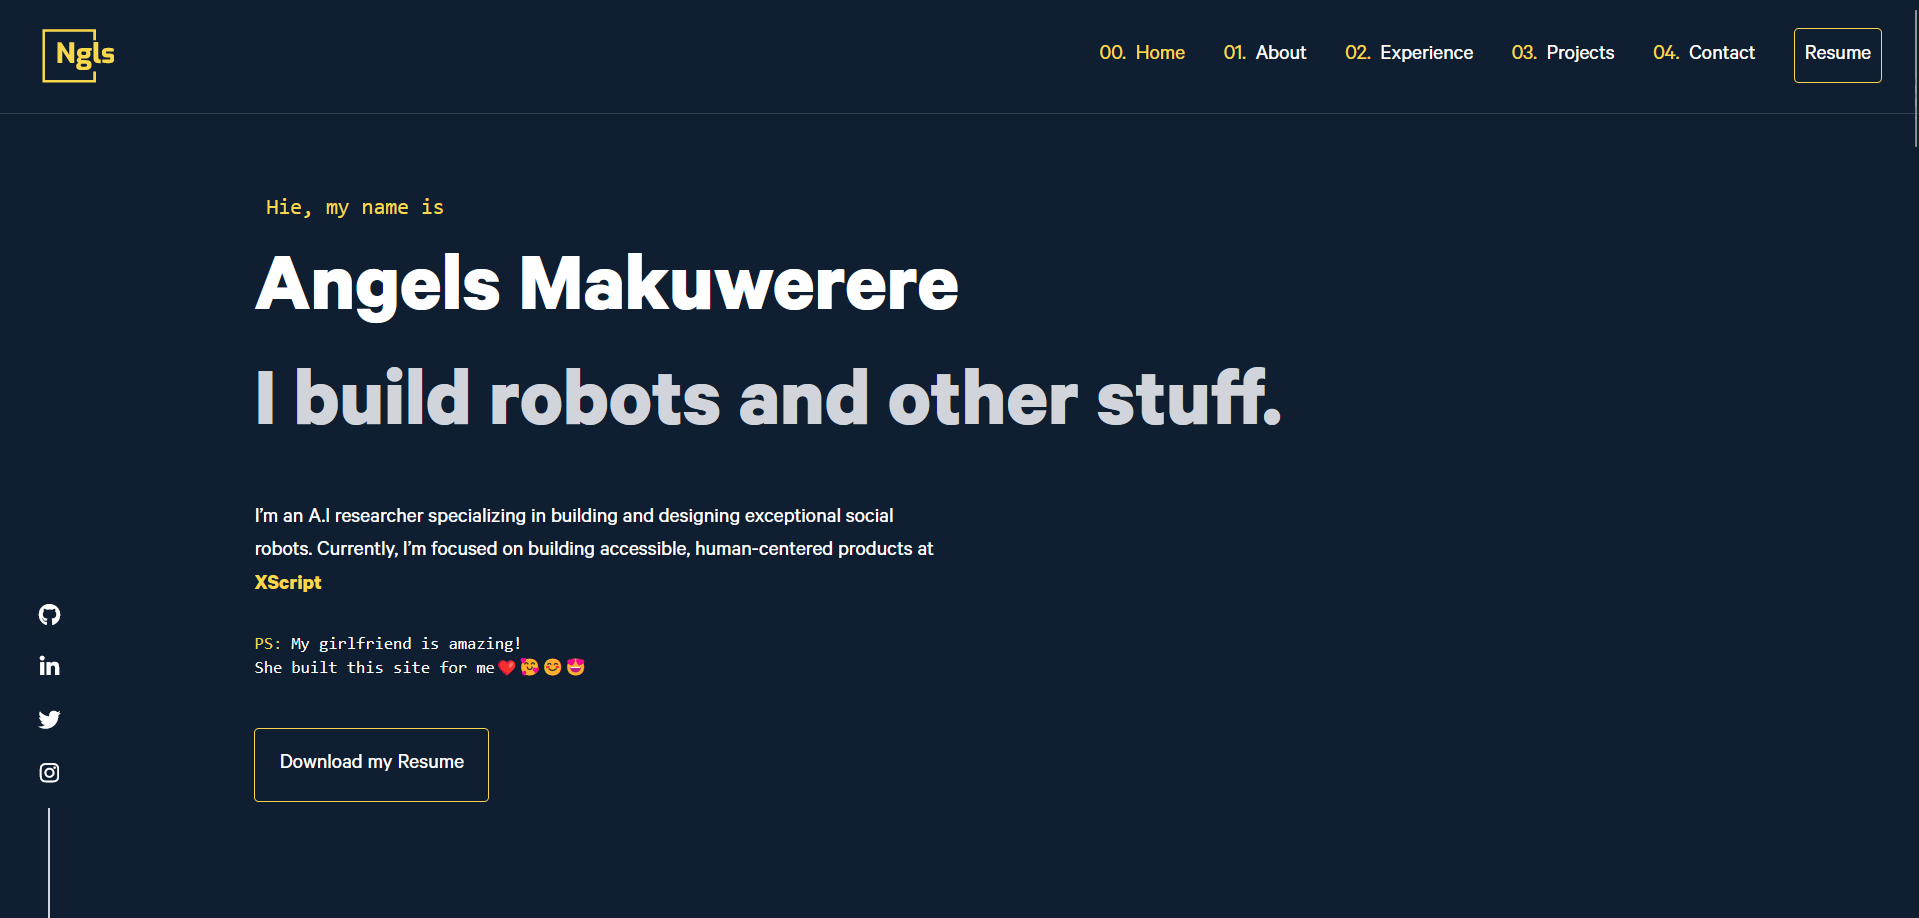
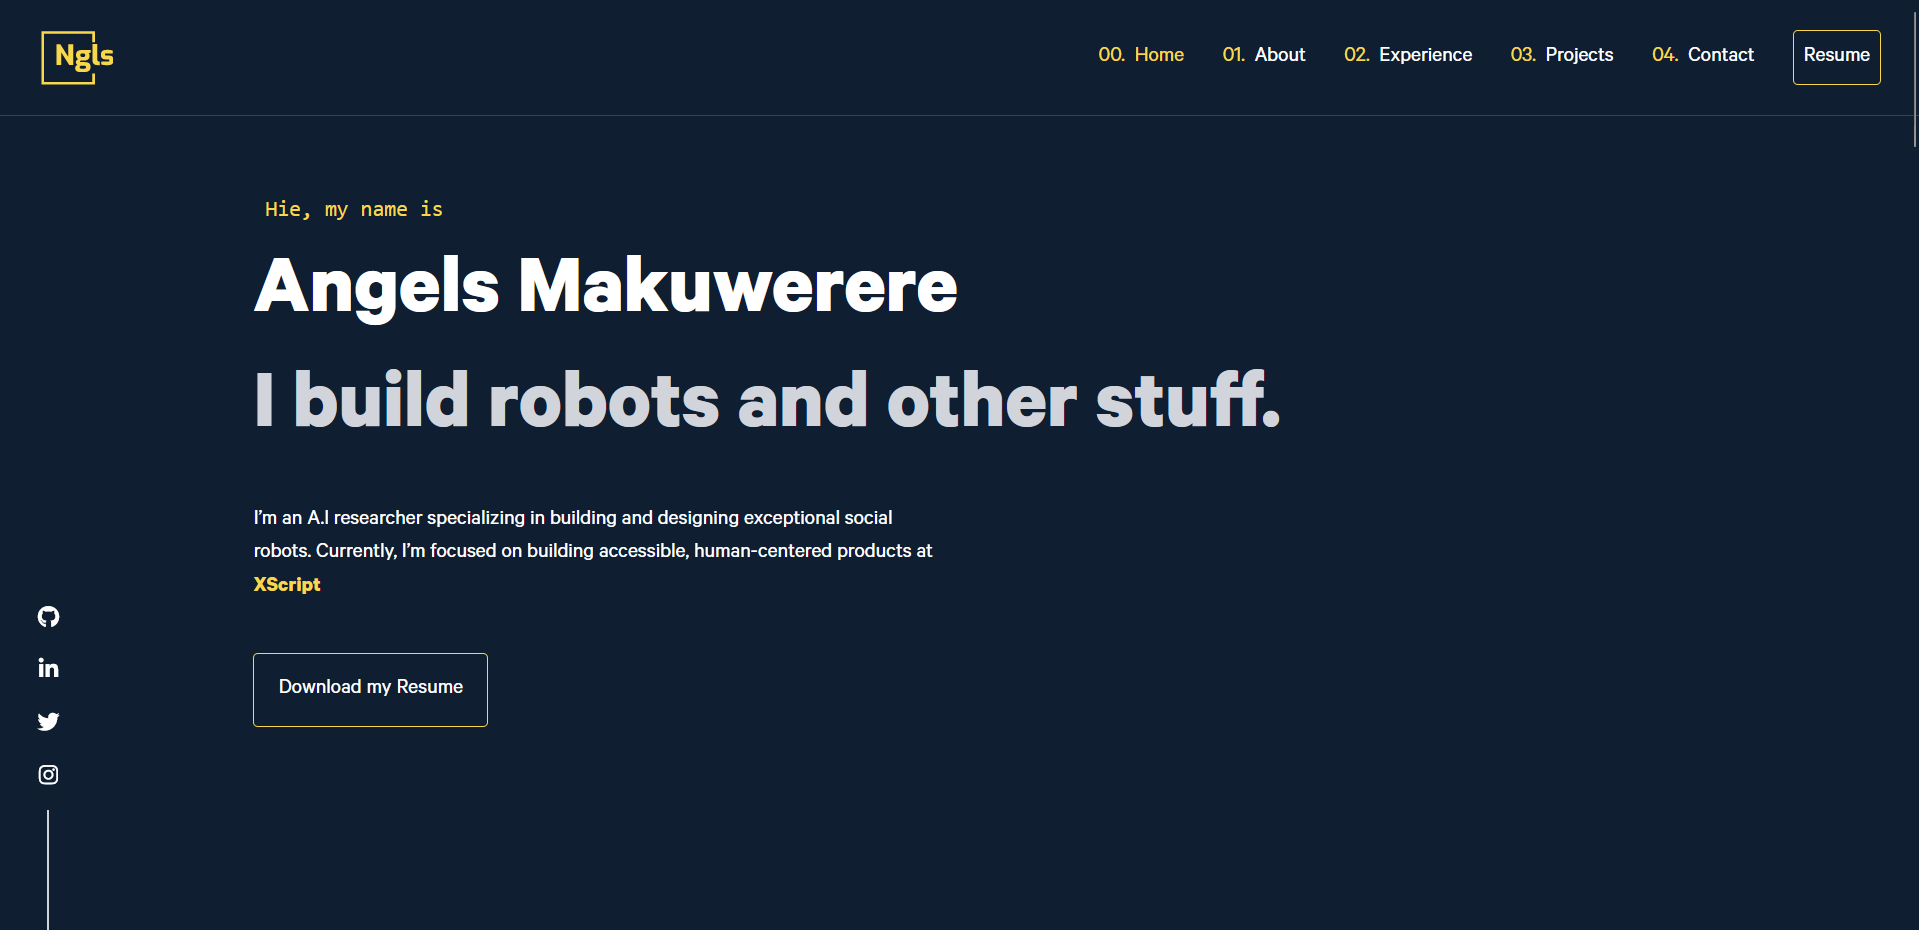
imgs readme

diff --git a/src/data/presets.jsx b/src/data/presets.jsx
@@ -78,7 +78,7 @@ export const Data = {
         {
           Title: "Overview",
           Description:
-            "My girlfriend likes this robot from Rick and Morty so I built it for her. I just want to make her happy :). #manifesting",
+            "Lorem ipsum dolor sit amet, consectetur adipiscing elit. Fusce quis tempus neque, sed tincidunt tortor. Fusce vulputate a libero et volutpat. Sed varius neque massa, vitae porttitor eros commodo vel. Etiam at nisl fringilla",
         },
       ],
       Url: "https://github.com/beautytasara27/LibraryWeb",
@@ -208,7 +208,7 @@ export const Data = {
     },
   ],
   Contact: {
-    text: "But seriously though, how cool is this site😍. Tell me how amazing my girlfriend is bellow :))",
+    text: "Etiam nibh felis, sollicitudin non sagittis varius, laoreet sit amet arcu. Lorem ipsum dolor sit amet, consectetur adipiscing elit",
     buttonText: "Say Hello",
     buttonLink: "mailto:beautytasara27@gmail.com",
   },
@@ -218,4 +218,111 @@ export const Data = {
     twitter: "",
     instagram: "",
   },
+  Archive: [
+    {
+      projectId: "100",
+      Date: "2022",
+      projectName: "Sample Archive Project : My rendition of C3PO",
+      Languages: ["Javascript"],
+      Frameworks: ["OpenCv", "Tensorflow", "ROS"],
+      Company :"XScript",
+      paragraphs: [
+        {
+          Title: "Overview",
+          Description:
+            "Lorem ipsum dolor sit amet, neque quis cursus. Nullam sapien nunc, pharetra sit amet rutrum tincidunt, fermentum ac nibh. Etiam quis purus auctor, feugiat libero id, imperdiet arcu. Pellentesque pharetra sodales cursus.",
+        },
+      ],
+      Url: "https://github.com/beautytasara27/LibraryWeb",
+      GitHub: "https://github.com/beautytasara27/LibraryWeb",
+      imageUrl: "Images/Altonium/alto2.png",
+      video: "https://www.youtube.com/embed/RmU-EzRo6x8",
+      images: [
+        "Images/Altonium/alto1.png",
+        "Images/Altonium/alto2.png",
+        "Images/Altonium/alto3.png",
+        "Images/Altonium/alto4.png",
+      ],
+      links: [
+        {
+          name: "Github",
+          url: "https://github.com/beautytasara27/LibraryWeb",
+        },
+        {
+          name: "Live",
+          url: "https://library-7722.netlify.app/",
+        },
+      ],
+    },
+    {
+      projectId: "101",
+      Date: "2022",
+      projectName: "Sample Archive Project 2 : Ex Machina Prototype",
+      Languages: ["Javascript"],
+      Frameworks: ["OpenCv", "Tensorflow", "ROS"],
+      Company :"XScript",
+      paragraphs: [
+        {
+          Title: "Overview",
+          Description:
+            "Lorem ipsum dolor sit amet, neque quis cursus. Nullam sapien nunc, pharetra sit amet rutrum tincidunt, fermentum ac nibh. Etiam quis purus auctor, feugiat libero id, imperdiet arcu. Pellentesque pharetra sodales cursus.",
+        },
+      ],
+      Url: "https://github.com/beautytasara27/LibraryWeb",
+      GitHub: "https://github.com/beautytasara27/LibraryWeb",
+      imageUrl: "Images/Altonium/alto2.png",
+      video: "https://www.youtube.com/embed/RmU-EzRo6x8",
+      images: [
+        "Images/Altonium/alto1.png",
+        "Images/Altonium/alto2.png",
+        "Images/Altonium/alto3.png",
+        "Images/Altonium/alto4.png",
+      ],
+      links: [
+        {
+          name: "Github",
+          url: "https://github.com/beautytasara27/LibraryWeb",
+        },
+        {
+          name: "Live",
+          url: "https://library-7722.netlify.app/",
+        },
+      ],
+    },
+    {
+      projectId: "102",
+      Date: "2022",
+      projectName: "Sample C Project 3 : Industrial robots Hackathon",
+      Languages: ["Javascript"],
+      Frameworks: ["OpenCv", "Tensorflow", "ROS"],
+      Company :"XScript",
+      paragraphs: [
+        {
+          Title: "Overview",
+          Description:
+            "Lorem ipsum dolor sit amet, neque quis cursus. Nullam sapien nunc, pharetra sit amet rutrum tincidunt, fermentum ac nibh. Etiam quis purus auctor, feugiat libero id, imperdiet arcu. Pellentesque pharetra sodales cursus.",
+        },
+      ],
+      Url: "https://github.com/beautytasara27/LibraryWeb",
+      GitHub: "https://github.com/beautytasara27/LibraryWeb",
+      imageUrl: "Images/Altonium/alto2.png",
+      video: "https://www.youtube.com/embed/RmU-EzRo6x8",
+      images: [
+        "Images/Altonium/alto1.png",
+        "Images/Altonium/alto2.png",
+        "Images/Altonium/alto3.png",
+        "Images/Altonium/alto4.png",
+      ],
+      links: [
+        {
+          name: "Github",
+          url: "https://github.com/beautytasara27/LibraryWeb",
+        },
+        {
+          name: "Live",
+          url: "https://library-7722.netlify.app/",
+        },
+      ],
+    },
+  ],
 };

diff --git a/src/pages/archive.jsx b/src/pages/archive.jsx
@@ -1,0 +1,84 @@
+import { useContext } from "react";
+import AppContext from "../context/AppContext";
+const Archive = () => {
+  const { Archive } = useContext(AppContext);
+  return (
+    <div className="text-base lg:text-lg mt-40 font-rubik-regular">
+      <div className="flex justify-center h-screen mx-4 sm:mx-6 lg:mx-8">
+        <div className="w-full max-w-6xl">
+          <div>
+            <h1 className="font-rubik-bold text-4xl lg:text-7xl mb-10 text-gray-200">
+              Archive
+            </h1>
+            <pre>
+              <p className="text-yello text-sm sm:text-lg">
+                A bunch of stuff I've built over the years.
+              </p>
+            </pre>
+          </div>
+          <table className="table-auto w-full mt-20">
+            <thead>
+              <tr className="text-gray-300 font-rubik-bold">
+                <th scope="col" className="px-6 py-3">
+                  Year
+                </th>
+                <th scope="col" className="px-6 py-3">
+                  Title
+                </th>
+                <th scope="col" className="hidden lg:table-cell px-6 py-3">
+                  Made at
+                </th>
+                <th scope="col" className="hidden lg:table-cell px-6 py-3">
+                  Built With
+                </th>
+                <th scope="col" className="px-6 py-3">
+                  Links
+                </th>
+              </tr>
+            </thead>
+            <tbody>
+              {Archive.map((project) => (
+                <tr
+                  key={project.projectId}
+                  className="space-y-0 hover:bg-themeDarker"
+                >
+                  <td className="px-6 py-4 text-yello">{project.Date}</td>
+                  <td className="px-6 py-4 font-rubik-bold lg:text-xl text-gray-200">
+                    {project.projectName}
+                  </td>
+                  <td className="hidden lg:table-cell px-6 py-4 text-gray-300">{project.Company}</td>
+                  <td className="hidden lg:table-cell px-6 py-4 text-gray-300 text-xs lg:text-sm">
+                    <pre>
+                    •{project.Frameworks.map((lang) => (
+                    <span className="mx-2">{`${lang} •`}</span>
+                      ))}
+                    </pre>
+                  </td>
+                  <td className="px-6 py-4 text-gray-300 flex space-x-4  items-center">
+                  <a
+                  className="flex items-center"
+                  href={project.Github}
+                  target="_blank"
+                  rel="noreferrer"
+                >
+                  <i className="fa-brands fa-github "></i>
+                </a>
+                <a
+                  className="flex items-center"
+                  href={project.Url}
+                  target="_blank"
+                  rel="noreferrer"
+                >
+                  <i className="fa-solid fa-arrow-up-right-from-square "></i>
+                </a>
+                  </td>
+                </tr>
+              ))}
+            </tbody>
+          </table>
+        </div>
+      </div>
+    </div>
+  );
+};
+export default Archive;

diff --git a/src/App.js b/src/App.js
@@ -4,6 +4,7 @@ import { BrowserRouter as Router, Routes, Route } from "react-router-dom";
 import { Data } from "./data/presets";
 import AppContext from "./context/AppContext";
 import { useState, useEffect } from "react";
+import Archive from "./pages/archive";
 function App() {
   const [isLoading, setLoading] = useState(true);
   
@@ -31,6 +32,7 @@ function App() {
         <Router>
           <Routes>
             <Route path="" element={<Home />}></Route>
+            <Route path="/archive" element={<Archive />}></Route>
           </Routes>
         </Router>
       </div>

diff --git a/src/components/Landing/index.jsx b/src/components/Landing/index.jsx
@@ -26,12 +26,7 @@ const Landing = forwardRef(({ ScrollToSection }, ref) => {
               {Landing.highlighted}
             </span>
           </p>
-          <h1 className="text-sm font-rubik-bold">
-            <pre>
-              <span className="text-yello">PS: </span>
-              My girlfriend is amazing! <br/>She built this site for me❤🥰😊😍
-            </pre>
-          </h1>
+          
 
           <div className="pt-4">
             {" "}

diff --git a/src/helpers/Animate.jsx b/src/helpers/Animate.jsx
@@ -1,5 +1,4 @@
 const Animate = ({ref, onScreen, children })=>{
-console.log("hulahoop",ref, onScreen)
     return (
         <div
           ref={ref}
